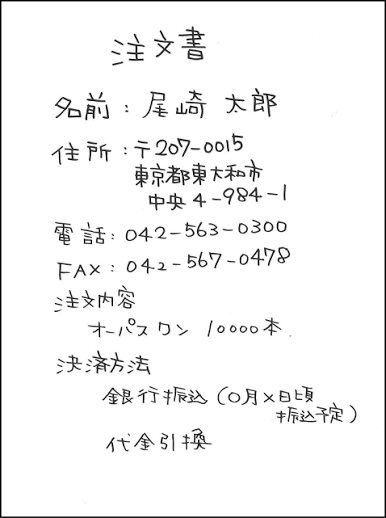
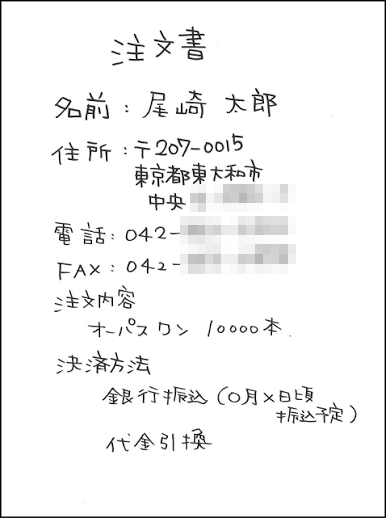
デモのサンプル取引先名を差し替え、手書きFAXの番地・電話番号を伏せる

Changed region(s): [[0.4663, 0.3398, 0.7461, 0.556]]

diff --git a/lib/data.ts b/lib/data.ts
@@ -54,10 +54,10 @@ export const SAMPLE_ORDERS: Order[] = [
     sourceName: "スマホ撮影FAX画像",
     customerName: "尾崎 太郎",
     customerContactName: "尾崎 太郎",
-    customerContactAddress: "fax://042-567-0478",
+    customerContactAddress: "fax://042-***-****",
     orderDate: "2026-07-01",
     requestedDeliveryDate: null,
-    deliveryAddress: "〒207-0015 東京都東大和市中央4-984-1",
+    deliveryAddress: "〒207-0015 東京都東大和市中央 ＊-＊＊＊-＊",
     items: [
       { lineNo: 1, productCode: null, productName: "オーパスワン", quantity: 10000, unit: "本", unitPrice: null, amount: null },
     ],
@@ -78,7 +78,7 @@ export const SAMPLE_ORDERS: Order[] = [
     recommendedAction: "取引先に決済方法（いずれか一方）と振込予定日を確認してください。",
     draftReply: {
       channel: "fax_image",
-      to: "尾崎 太郎 様 (FAX: 042-567-0478)",
+      to: "尾崎 太郎 様 (FAX: 042-＊＊＊-＊＊＊＊)",
       subject: null,
       body: "尾崎 太郎 様\n\nこの度はご注文をいただき誠にありがとうございます。ご注文書を拝見したところ、下記2点についてご確認をお願いしたく存じます。\n・決済方法：「銀行振込」と「代金引換」の両方にご記入がございました。恐れ入りますが、いずれか一方をご指定ください。\n・お振込予定日：具体的な日付のご記入をお願いいたします。\n\nお手数をおかけしますが、ご返信いただけますようお願い申し上げます。",
       editable: true,
@@ -93,9 +93,9 @@ export const SAMPLE_ORDERS: Order[] = [
       faxLines: [
         { text: "注文書", readable: true },
         { text: "名前：尾崎 太郎", readable: true },
-        { text: "住所：〒207-0015 東京都東大和市中央4-984-1", readable: true },
-        { text: "電話：042-563-0300", readable: true },
-        { text: "FAX：042-567-0478", readable: true },
+        { text: "住所：〒207-0015 東京都東大和市中央 ＊-＊＊＊-＊", readable: true },
+        { text: "電話：042-＊＊＊-＊＊＊＊", readable: true },
+        { text: "FAX：042-＊＊＊-＊＊＊＊", readable: true },
         { text: "注文内容：オーパスワン 10000本", readable: true },
         { text: "決済方法：銀行振込 ／ 代金引換（両方に記載・矛盾）", readable: false },
         { text: "振込予定日：0月x日頃（具体的な日付が不明）", readable: false },
@@ -295,9 +295,9 @@ export const SAMPLE_ORDERS: Order[] = [
     receivedAt: "2026-07-01T15:40:00+09:00",
     channel: "email_pdf",
     sourceName: "メール添付PDF",
-    customerName: "中部流通株式会社",
+    customerName: "東海流通株式会社",
     customerContactName: "加藤様",
-    customerContactAddress: "kato@chubu-ryutsu.example.com",
+    customerContactAddress: "kato@tokai-ryutsu.example.com",
     orderDate: "2026-07-01",
     requestedDeliveryDate: "2026-07-15",
     deliveryAddress: "愛知県名古屋市中区3-5-7",
@@ -321,7 +321,7 @@ export const SAMPLE_ORDERS: Order[] = [
     logs: [],
     sourcePreview: {
       kind: "scanned_image",
-      header: "件名：発注書の送付 / 差出人：中部流通株式会社 加藤 <kato@chubu-ryutsu.example.com> / 添付：PO_chubu_0701.pdf",
+      header: "件名：発注書の送付 / 差出人：東海流通株式会社 加藤 <kato@tokai-ryutsu.example.com> / 添付：PO_tokai_0701.pdf",
       imageDataUrl: "/mock-documents/po-chubu-ryutsu.svg",
     },
   },

diff --git a/lib/core.ts b/lib/core.ts
@@ -8,7 +8,7 @@ export const CUSTOMER_CODE: Record<string, string> = {
   "西日本小売株式会社": "CUST-1004",
   "九州スーパー株式会社": "CUST-1005",
   "北海道フーズ株式会社": "CUST-1006",
-  "中部流通株式会社": "CUST-1007",
+  "東海流通株式会社": "CUST-1007",
   "東北商事株式会社": "CUST-1008",
 };
 
